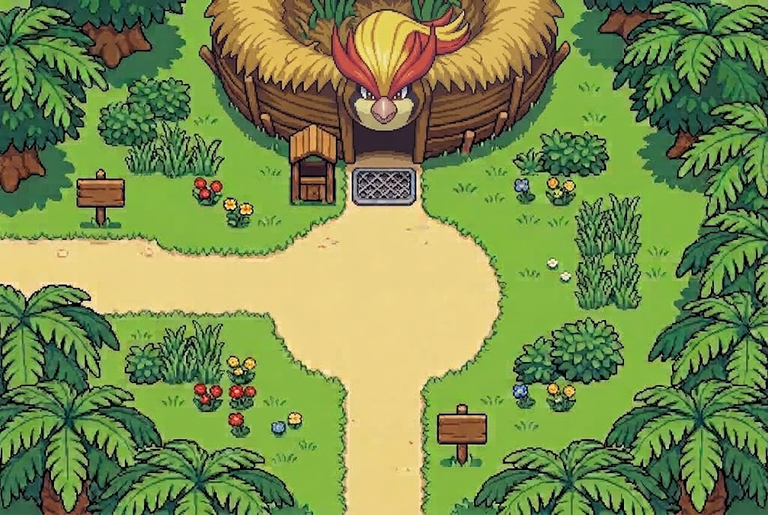
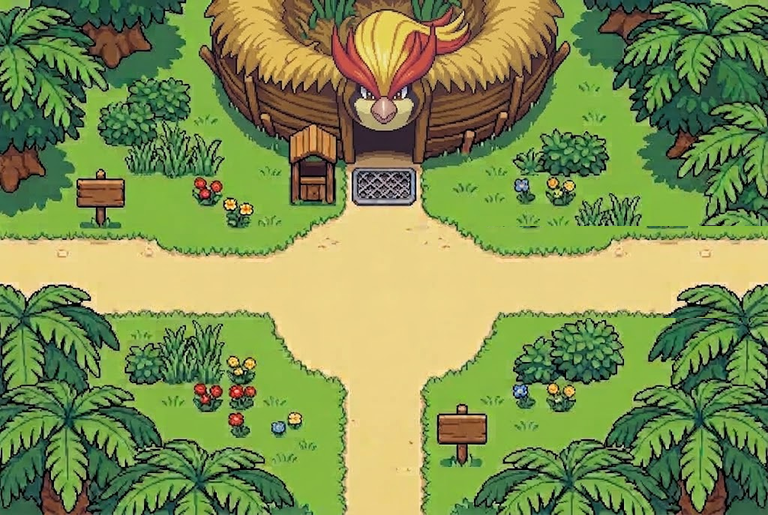
Fuente de la Evolución

Changed region(s): [[0.625, 0.435, 1.0, 0.6214], [0.5938, 0.435, 0.625, 0.466]]

diff --git a/client/js/game.js b/client/js/game.js
@@ -550,6 +550,13 @@ function talkTo(kind) {
       return openDialog([{ who: 'Mawile', text: `¡Rango Diamante! Adelante, ${user.name}. El jefe te recibirá.` }], () => openPidgeotOffice());
     case 'chatot_intro': return openDialog([{ who: 'Chatot', text: '¿Has cambiado de idea? ¡Estupendo!' }], () => tutorial(true));
     case 'murkrow': return npcGreeting('Murkrow', MURKROW_LINES, 'mk');
+    case 'rowlet': {   // «???»: una Rowlet que lleva en la fuente tanto tiempo como el maestro del gremio y nunca quiso evolucionar
+      const r = (text, mood = 'Normal') => ({ who: '???', sp: 'rowlet', mood, text });
+      if ((meta.stats?.deepestBy?.tiempo || 0) < 100) return openDialog([r('…'), r('Aún no sería bueno para ti evolucionar…', 'Worried'),
+        r('Conócete primero, pelea contra tus debilidades… y cuando hayas logrado eso, entonces estarás listo para tu siguiente forma…', 'Determined'),
+        r('Aunque puedas vivir sin ella.', 'Happy')]);
+      return openDialog([r('…'), r('Has llegado muy lejos. Lo noto.', 'Happy'), r('La fuente aún duerme… Cuando despierte, vuelve a verme.', 'Normal')]);
+    }
     case 'chansey': return openDialog([{ who: 'Chansey', text: '¡Bienvenidos a la zona de descanso! Aquí os recuperáis después de cada expedición. Descansad bien, que mañana será otro día de aventuras.' }]);
     case 'diglett': return openDialog([{ who: 'Diglett', text: '¡Huella reconocida! Pasa, pasa. Y no toques la rejilla.' }]);
     case 'chatot': return openDialog([{ who: 'Chatot', text: `¿Dudas, ${user.name}? El tablón está justo ahí. El maestro Pidgeot está… ocupado. Siempre está ocupado.` }], () => openMenu({ title: 'Chatot', items: ['Rango y progreso', 'Diario de exploración', 'Repetir el tutorial', 'Nada, gracias'], onCancel: closeHub, onSelect: i => i === 0 ? openRankMenu() : i === 1 ? openDiaryMenu() : i === 2 ? tutorial() : closeHub() }));
@@ -1508,7 +1515,7 @@ function drinkEffect(name, it) {
   const p = state.player;
   if (it.fx === 'ppAll' || it.fx === 'ppMax') { for (const m of p.moves) m.pp = MOVES[m.name]?.pp ?? m.pp; say(`Bebes ${name}. ¡PP restaurados!`); }
   else if (it.fx === 'iq') eatGummi(p, { type: '*' });
-  else if (it.fx === 'stat') { p.bonus = { ...(p.bonus || {}), [it.stat]: (p.bonus?.[it.stat] || 0) + it.n }; const nm = AREA_NAMES[it.stat]; say(`Tomas ${name}. ¡Sube ${nm} de ${p.name} para siempre!`); }
+  else if (it.fx === 'stat') { p.bonus = { ...(p.bonus || {}), [it.stat]: (p.bonus?.[it.stat] || 0) + it.n }; const nm = STAT_NAMES_DE[it.stat]; say(`Tomas ${name}. ¡Sube ${nm} de ${p.name} para siempre!`); }
 }
 // Objetos arrojadizos: en línea recta (hasta 10 casillas) o en arco (saltan por encima de lo que haya en medio)
 function throwItem(name, it) {
@@ -2219,7 +2226,8 @@ function drawStatusIcon(e, px, py, tile) {
   } else { ctx.fillStyle = '#b48ead'; ctx.font = `bold ${Math.round(9 * s)}px sans-serif`; ctx.fillText(STATUS[k]?.name?.[0] || '?', x - 3 * s, y + 3 * s); }
   ctx.restore(); return true;
 }
-const AREA_NAMES = { atk: 'el Ataque', def: 'la Defensa', spa: 'el At. Esp.', spd: 'la Def. Esp.' };   // nombre de cada zona de la aldea (etiqueta del mapa y cabecera)
+const STAT_NAMES_DE = { atk: 'el Ataque', def: 'la Defensa', spa: 'el At. Esp.', spd: 'la Def. Esp.' };   // «sube el Ataque de…»
+const AREA_NAMES = { plaza: 'Plaza del gremio', gremio: 'Gremio de Pidgeot', descanso: 'Zona de descanso', mercado: 'Mercado', aldea: 'Aldea', fuente: 'Fuente de la Evolución' };   // nombre de cada zona (etiqueta del mapa y cabecera)
 function renderFeed() {
   if (!logInside() || state.dialog || state.scene !== 'dungeon') return;   // solo en las mazmorras (en la aldea del original no hay registro)
   const now = performance.now(), items = (state.feed || []).filter(f => now - f.t < FEED_MS);
@@ -2281,7 +2289,7 @@ function renderHub() {
   const fx = h.x + h.facing[0] * 22, fy = h.y + h.facing[1] * 22;
   const near = def.npcs.filter(npcShown).find(n => (!n.approach || inRect(h.x, h.y, n.approach)) && (Math.hypot(n.x - fx, n.y - fy) < (n.reach ? n.reach - 20 : 24) || Math.hypot(n.x - h.x, n.y - h.y) < (n.reach || 26))) || (def.signs || []).find(s => inRect(fx, fy, s.rect)) || (def.hotspots || []).find(hs => inRect(fx, fy, hs.rect) || inRect(h.x, h.y, hs.rect)) || def.exits.find(ex => ex.label && inExit(ex, fx, fy));
   if (near && !state.menu && !state.dialog) { ctx.font = 'bold 11px sans-serif'; const hint = (document.body.classList.contains('touch-on') ? 'A' : 'Z') + ' · ' + (near.label || near.text ? (near.label || 'Leer') : 'Hablar'), hw = ctx.measureText(hint).width + 20; ctx.fillStyle = 'rgba(20,18,28,.85)'; ctx.fillRect(W / 2 - hw / 2, 8, hw, 20); ctx.fillStyle = '#f2b544'; ctx.textAlign = 'center'; ctx.fillText(hint, W / 2, 22); ctx.textAlign = 'left'; } // el fondo se ajusta al texto
-  { ctx.font = '11px sans-serif'; const nm = { plaza: 'Plaza del gremio', gremio: 'Gremio de Pidgeot', descanso: 'Zona de descanso', mercado: 'Mercado', aldea: 'Aldea' }[h.area] || ''; ctx.fillStyle = 'rgba(20,18,28,.7)'; ctx.fillRect(8, 8, ctx.measureText(nm).width + 12, 18); ctx.fillStyle = '#e9e3d3'; ctx.fillText(nm, 14, 21); } // el fondo se ajusta al texto
+  { ctx.font = '11px sans-serif'; const nm = AREA_NAMES[h.area] || ''; ctx.fillStyle = 'rgba(20,18,28,.7)'; ctx.fillRect(8, 8, ctx.measureText(nm).width + 12, 18); ctx.fillStyle = '#e9e3d3'; ctx.fillText(nm, 14, 21); } // el fondo se ajusta al texto
 }
 const TILE_COLORS = { [T.WALL]: '#3b2f5a', [T.FLOOR]: '#8f7a5c', [T.STAIRS]: '#8f7a5c', [T.WATER]: '#2f6fa8', [T.LAVA]: '#c4521f' };
 const TILE_KEYS = { [T.WALL]: 'wall', [T.FLOOR]: 'floor', [T.STAIRS]: 'stairs', [T.WATER]: 'water', [T.LAVA]: 'lava' };

diff --git a/client/js/hub.js b/client/js/hub.js
@@ -8,6 +8,7 @@ export const HUB = {
     // Salidas: franjas junto al borde (o la puerta). Al entrar en ellas cambias de zona.
     exits: [
       { rect: [0, 225, 22, 305], to: 'mercado', at: { x: 722, y: 288 } },
+      { rect: [746, 230, 768, 310], to: 'fuente', at: { x: 50, y: 290 } },   // camino de la derecha: la Fuente de la Evolución
       { rect: [335, 493, 430, 515], to: 'aldea', at: { x: 384, y: 48 } },
       { rect: [345, 150, 425, 200], to: 'gremio', at: { x: 405, y: 466 }, label: 'Puerta del gremio' },
     ],
@@ -39,6 +40,14 @@ export const HUB = {
     beds: [ { x: 116, y: 326, box: [32, 284, 198, 400] }, { x: 146, y: 434, box: [62, 394, 232, 494] },
             { x: 650, y: 326, box: [568, 284, 734, 400] }, { x: 614, y: 434, box: [532, 394, 694, 494] } ],
     npcs: [ { id: 'chansey', x: 522, y: 238, facing: [0, 1], talk: 'chansey', fixedFacing: true, reach: 84, approach: [462, 300, 600, 360] } ],   // tras el mostrador
+  },
+  // Fuente de la Evolución (a la derecha de la plaza). Hecha con el tileset original de Apple Woods: tools/build-fuente.py.
+  // El camino sigue hacia la derecha, pero el bosque aún no deja pasar.
+  fuente: {
+    img: 'client/assets/hub/fuente.png', mask: 'client/assets/hub/fuente_mask.png', spawn: { x: 60, y: 290 },
+    exits: [ { rect: [0, 240, 22, 336], to: 'plaza', at: { x: 730, y: 270 } } ],
+    npcs: [ { id: 'rowlet', x: 408, y: 262, facing: [0, 1], talk: 'rowlet', fixedFacing: true, reach: 70 } ],   // «???»: lleva tanto tiempo como el maestro del gremio
+    signs: [ { rect: [590, 240, 672, 336], text: 'El bosque es demasiado espeso para seguir… Por ahora.' } ],
   },
   mercado: {
     img: 'client/assets/hub/mercado.png', mask: 'client/assets/hub/mercado_mask.png', spawn: { x: 730, y: 300 },

diff --git a/client/js/api-local.js b/client/js/api-local.js
@@ -108,6 +108,7 @@ async function localApi(path, body) {
         m.progress[species] = { level, exp: Math.max(0, Math.min(Math.floor(Number(mon.exp) || 0), expToNext(species, level) - 1)), iq: Math.min(999, Math.max(prev.iq || 0, Math.floor(Number(mon.iq) || 0))), bonus }; };
       keep(r.starter, body.player, false);
       for (const t of (body.team || [])) if (t && t.species !== r.starter && m.starters.includes(t.species)) keep(t.species, t, !m.progress[t.species]);
+      (m.stats.deepestBy ||= {})[def.id] = Math.max(m.stats.deepestBy[def.id] || 0, f);
       const st = body.diary || {}; m.stats.runs++; m.stats.floors += Math.max(0, f - 1); m.stats.deaths += body.outcome === 'death' ? 1 : 0; m.stats.monsterHouses += st.monsterHouses | 0; m.stats.recruited += st.recruited | 0; m.stats.kecleonRobs += st.kecleonRobs | 0; m.stats.deepest = Math.max(m.stats.deepest, f);
       m.lostRecruits = body.lostRecruits || []; rotateShop(m); refreshBoard(m); r.status = 'ended'; r.state = { floor: f, player: body.player };
       return { meta: m, messages: msgs, canRescue: false, result: { outcome: body.outcome, floor: f, penalty: typeof penalty !== 'undefined' ? penalty : null } };

diff --git a/client/js/music.js b/client/js/music.js
@@ -34,7 +34,7 @@ const TRACKS = {
 };
 // Lista de pistas con sus etiquetas (para consultarla desde la consola: window.__mmTracks())
 if (typeof window !== 'undefined') window.__mmTracks = () => Object.entries(TRACKS).map(([k, t]) => ({ pista: k, set: t.set, aprobada: t.approved }));
-const ZONE_TRACK = { plaza: 'village', gremio: 'village', descanso: 'rest', mercado: 'village', aldea: 'village' };
+const ZONE_TRACK = { plaza: 'village', gremio: 'village', descanso: 'rest', mercado: 'village', aldea: 'village', fuente: 'quiz' };   // la fuente: el tema del test («conócete primero»)
 const FADE = 1.2; // segundos de transición
 
 let ctx = null, master = null, current = null; // current = { key, src, gain }
